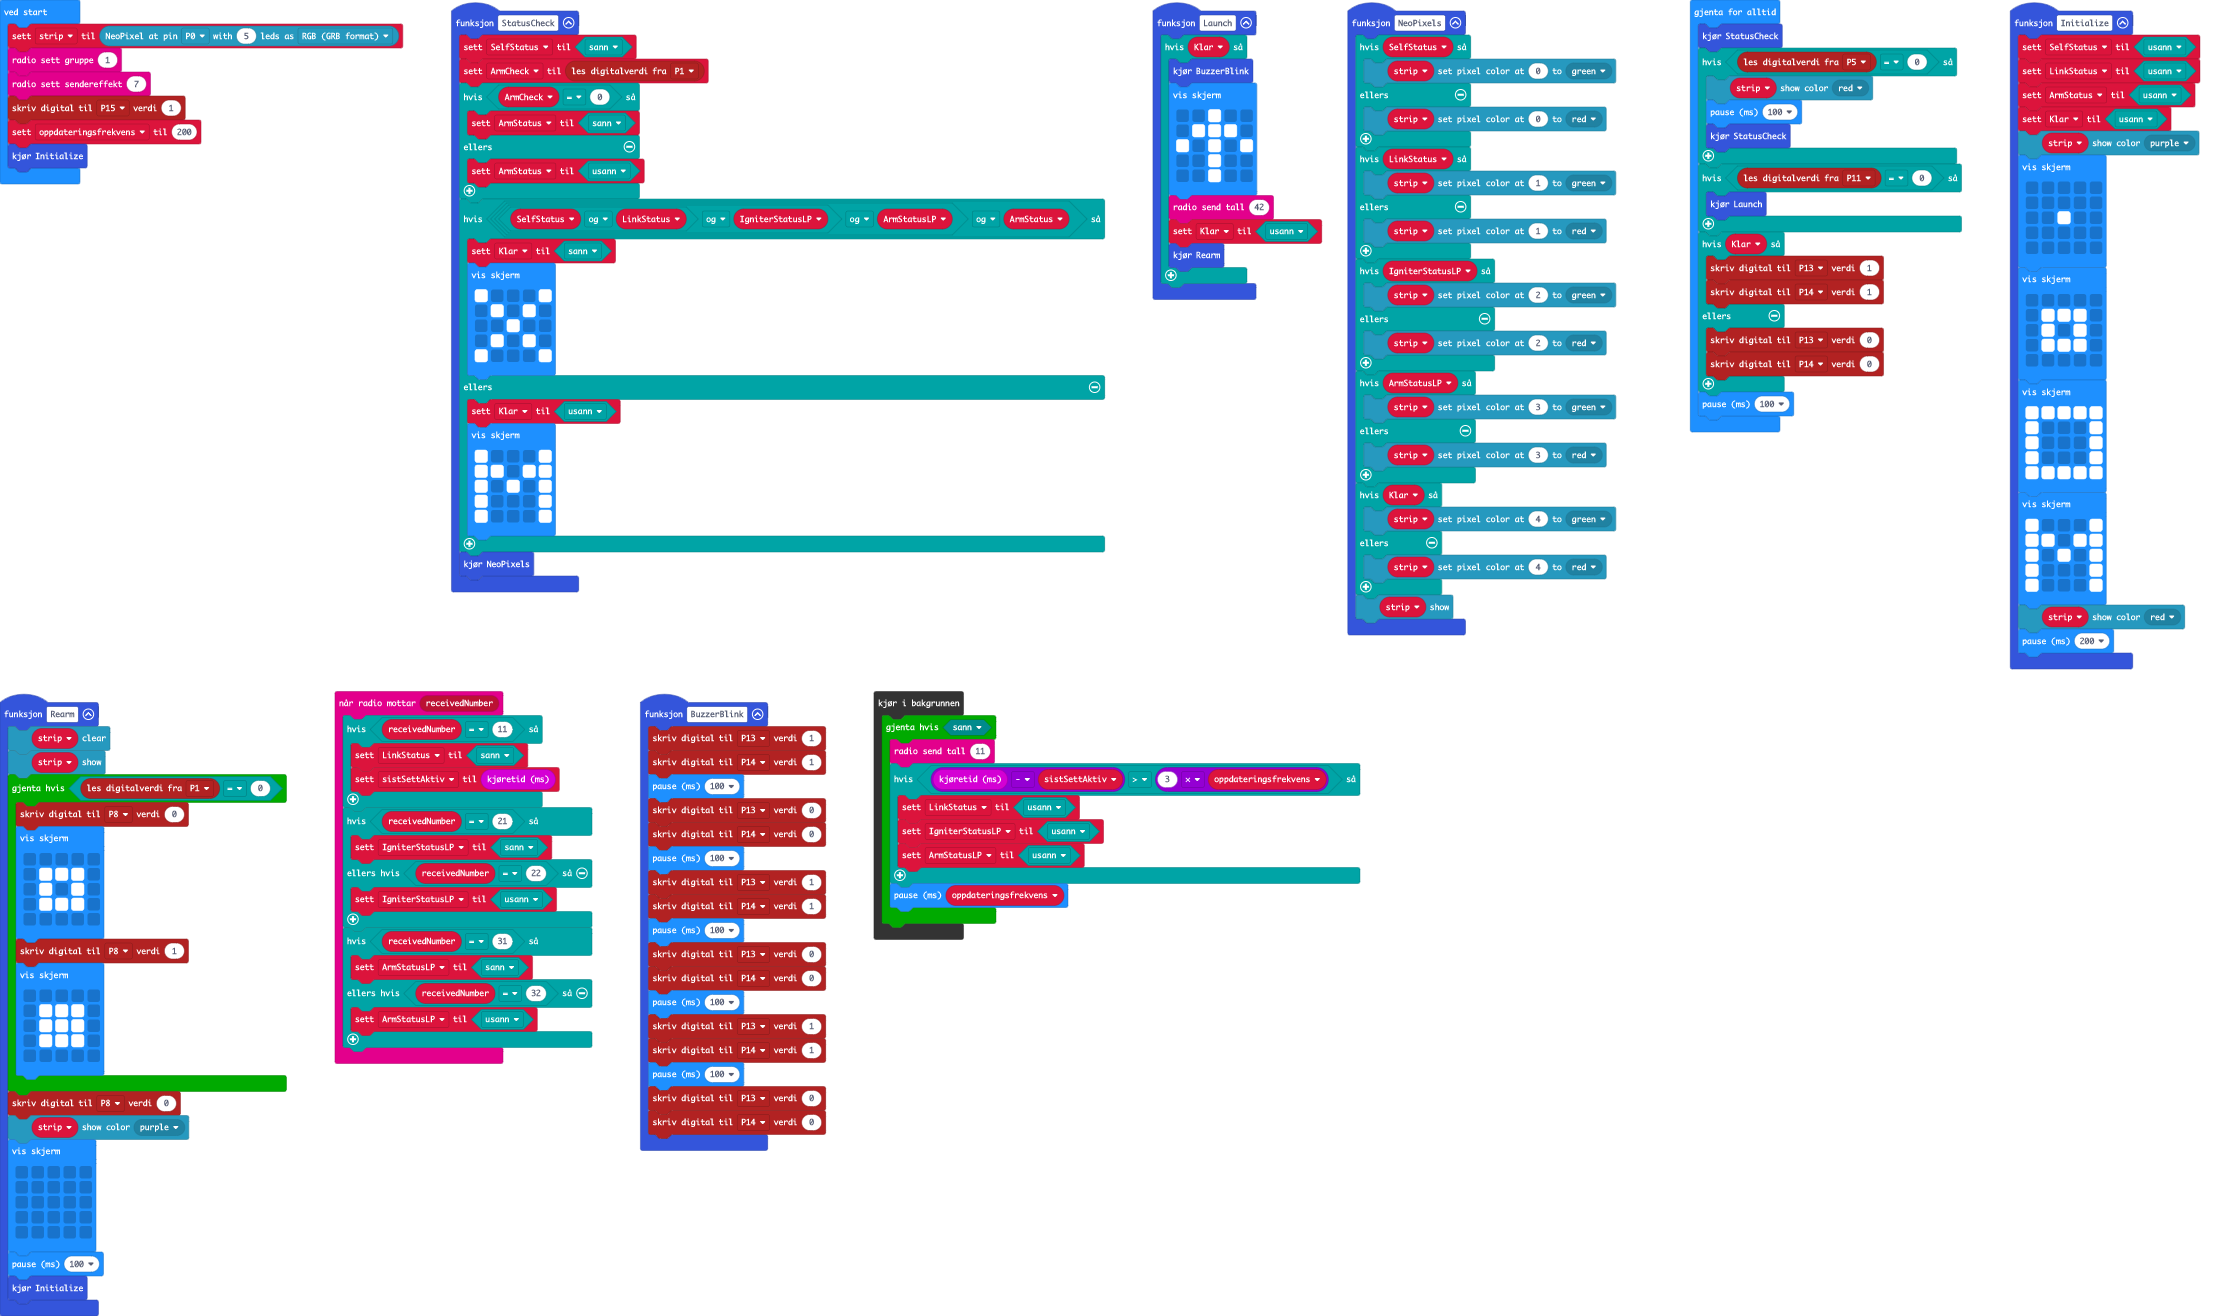
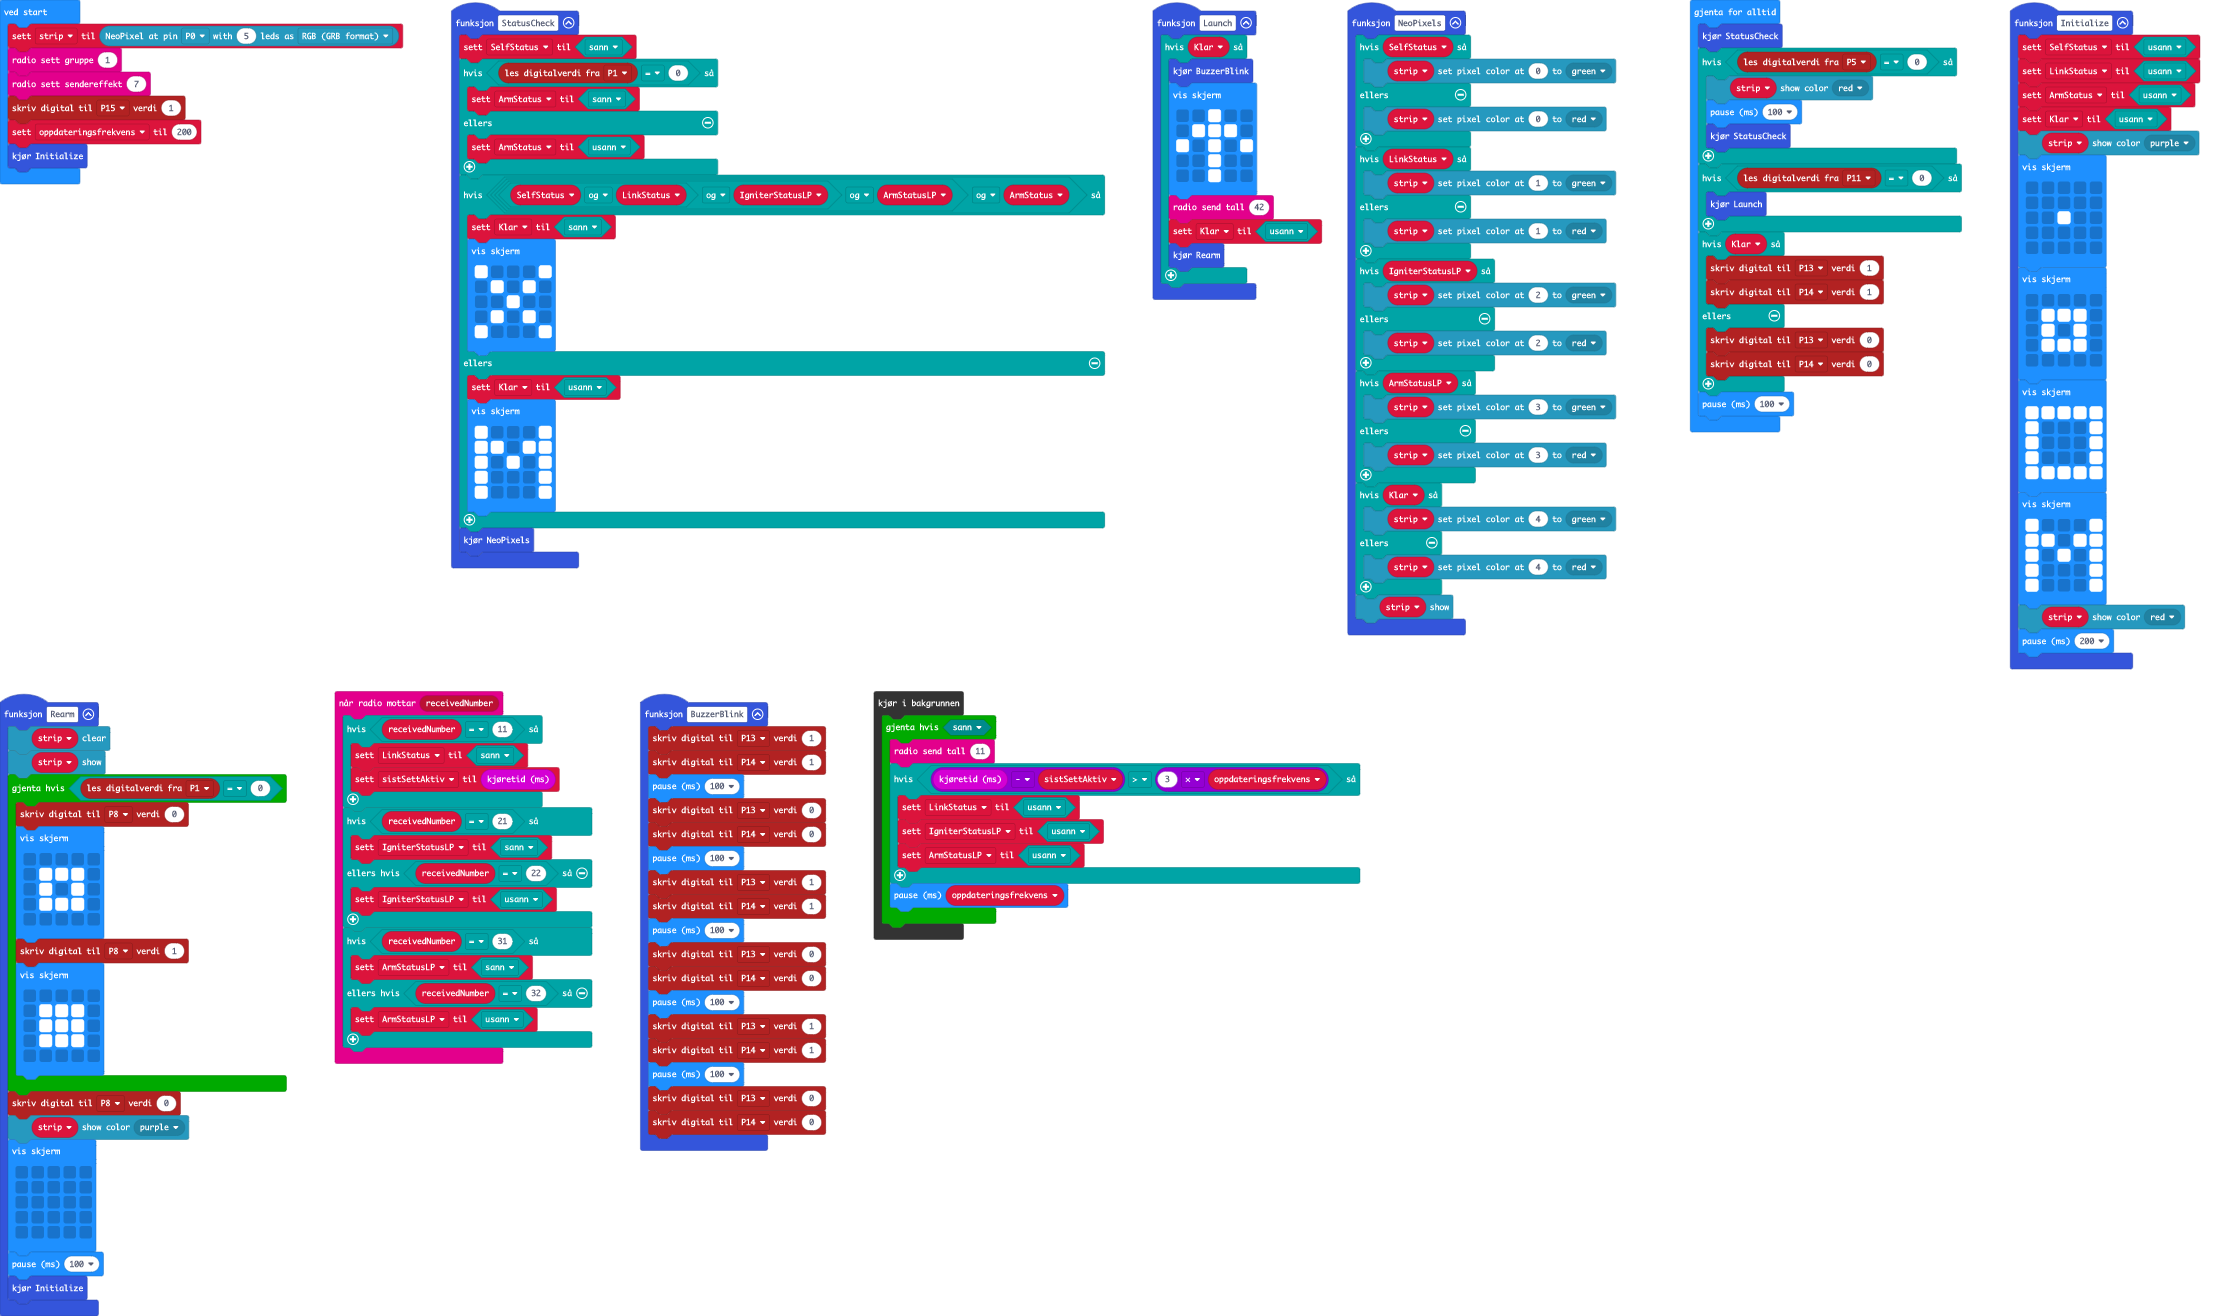
Oppdater main.blocks, main.ts

Changed region(s): [[0.186, 0.0312, 0.496, 0.4673]]

diff --git a/main.ts b/main.ts
@@ -49,8 +49,7 @@ function Rearm () {
 }
 function StatusCheck () {
     SelfStatus = true
-    ArmCheck = pins.digitalReadPin(DigitalPin.P1)
-    if (ArmCheck == 0) {
+    if (pins.digitalReadPin(DigitalPin.P1) == 0) {
         ArmStatus = true
     } else {
         ArmStatus = false
@@ -177,7 +176,6 @@ function BuzzerBlink () {
 }
 let Klar = false
 let ArmStatus = false
-let ArmCheck = 0
 let SelfStatus = false
 let ArmStatusLP = false
 let IgniterStatusLP = false
